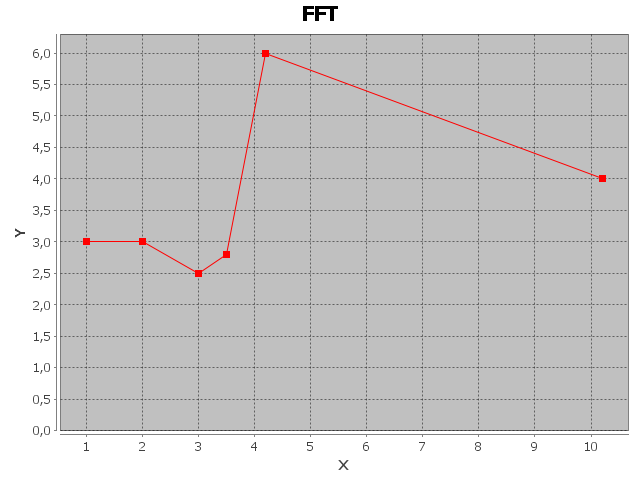
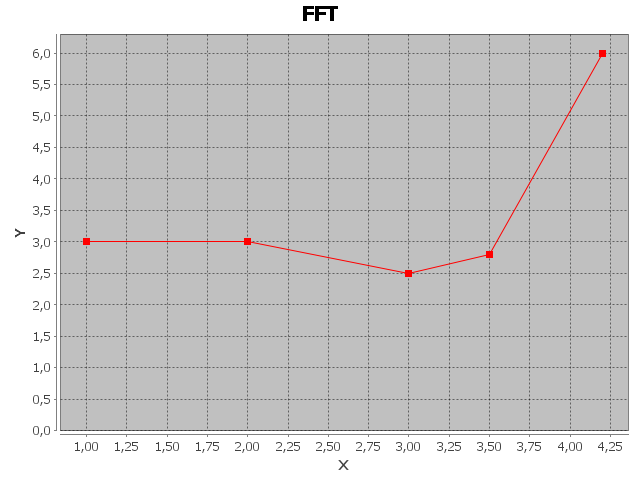
Changement final view

diff --git a/src/Controller/FenetreController.java b/src/Controller/FenetreController.java
@@ -2,13 +2,16 @@ package Controller;
 
 
 
+import Model.FonctionUsuelle;
 import View.FenetreView;
 import View.GraphiqueView;
+import View.ListeView;
 
 public class FenetreController {
-
-	public FenetreView fenetreView = null;
 	
+	private FonctionUsuelle fonctionU=null;
+	public FenetreView fenetreView = null;
+	public ListeView listeView=null;
 	public GraphiqueView graphView=null;
 	
 	public FenetreController() {
@@ -16,11 +19,12 @@ public class FenetreController {
        
     }
 	
-		public void init(FenetreView fView,GraphiqueView gView) {
+		public void init(FenetreView fView,GraphiqueView gView,FonctionUsuelle fctU,ListeView lView) {
 			
 	        this.fenetreView = fView;
-	     
+	        this.fonctionU=fctU;
 	        this.graphView=gView;
+	        this.listeView=lView;
 	    }
 
 	    public void displayFViews() {
@@ -30,11 +34,18 @@ public class FenetreController {
 	    public void displayGViews() {
 	    	this.graphView.display();
 	    }
+	    public void displayLViews() {
+	    	this.listeView.display();
+	    }
 	    
 
 	    public void closeFViews() {
 	      this.fenetreView.close();    
 	    }
+	    public void closeLViews() {
+		      this.listeView.close();    
+		    }
+	    
 	    public void closeGViews() {
 		      this.graphView.close();    
 		    }
@@ -43,6 +54,10 @@ public class FenetreController {
 	    	  this.fenetreView.close();    
 		      this.graphView.close();    
 		    }
+	    
+	    public void notifyFonctionSet(int pas, String fct, int nbEch){
+	    	
+	    }
 	
 	public static void main(String[] args) {
 		// TODO Auto-generated method stub

diff --git a/src/Main/Main.java b/src/Main/Main.java
@@ -1,21 +1,21 @@
 package Main;
 
-import java.util.ArrayList;
 
 import Controller.FenetreController;
-import Model.Complex;
-import Model.FFT;
+import Model.FonctionUsuelle;
 import View.FenetreView;
 import View.GraphiqueView;
+import View.ListeView;
 
 public class Main {
 
 	public static void main(String[] args) {
+		FonctionUsuelle model=new FonctionUsuelle(null);
 		FenetreView fView= new FenetreView();
-
+		ListeView lView=new ListeView();
 		GraphiqueView gView=new GraphiqueView();
 		FenetreController controller = new FenetreController();
-		controller.init(fView,gView);
+		controller.init(fView,gView,model,lView);
 		controller.displayFViews();
 	}
 

diff --git a/src/View/GraphiqueView.java b/src/View/GraphiqueView.java
@@ -67,14 +67,14 @@ public class GraphiqueView extends JFrame {
 		XYSeriesCollection dataset = new XYSeriesCollection();
 		XYSeries series1 = new XYSeries("FFT Sinus");
 		
-		/*
 		series1.add(1.0, 3.0);
 		series1.add(2.0, 3.0);
 		series1.add(3.0, 2.5);
 		series1.add(3.5, 2.8);
 		series1.add(4.2, 6.0);
-		series1.add(ArrayList<E>); 		
-		 */
+		//series1.add(ArrayList<E>); 		
+
+		/*
 		ArrayList<Complex> v = new ArrayList<Complex>();
 		// parcours l ensemble des vecteurs de f
 		for(int i=0; i<f.size();i++){
@@ -86,7 +86,7 @@ public class GraphiqueView extends JFrame {
 				}
 			}
 		}
-		
+		 */
 		dataset.addSeries(series1);
 		return dataset;
 	}
